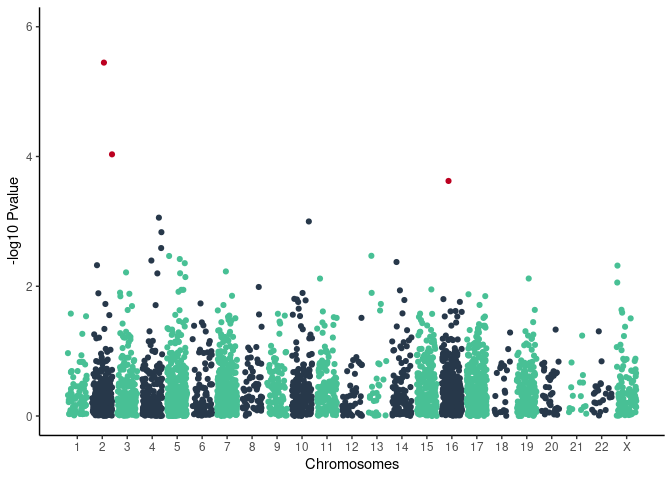
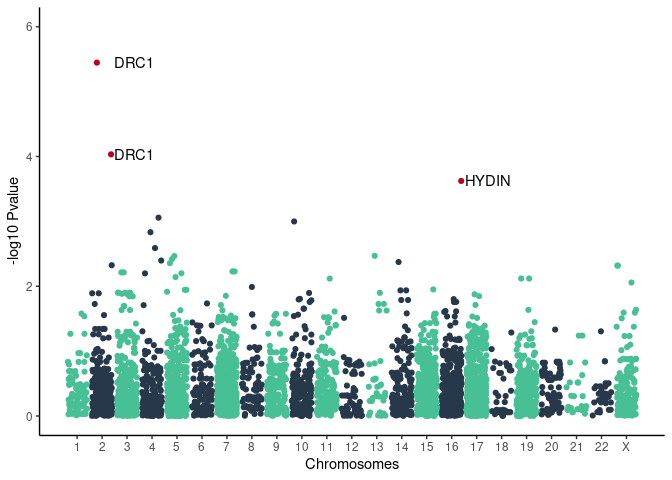
update

diff --git a/pulmo/logistic_gwas.md b/pulmo/logistic_gwas.md
@@ -3,14 +3,16 @@ pulmo\_panel
 
 Results on 1076 unrelated individuals
 
+    ## Joining, by = "SNP"
+
     ## `geom_smooth()` using formula 'y ~ x'
 
 ![](logistic_gwas_files/figure-gfm/loading_data-1.png)<!-- -->
 
 ![](logistic_gwas_files/figure-gfm/q_manhattan_plot-1.png)<!-- -->
 
-| CHR | SNP                    |   Pvalue | FDR\_BH | FDR\_BY |
-|----:|:-----------------------|---------:|--------:|--------:|
-|   2 | chr2\_26447115\_A\_T   | 3.60e-06 | 0.01157 |  0.1002 |
-|   2 | chr2\_26405653\_CTT\_C | 9.26e-05 | 0.15010 |  1.0000 |
-|  16 | chr16\_71164275\_T\_C  | 2.38e-04 | 0.25720 |  1.0000 |
+| SYMBOL | SNP                    |   Pvalue | FDR\_BH |
+|:-------|:-----------------------|---------:|--------:|
+| DRC1   | chr2\_26447115\_A\_T   | 3.60e-06 | 0.01157 |
+| DRC1   | chr2\_26405653\_CTT\_C | 9.26e-05 | 0.15010 |
+| HYDIN  | chr16\_71164275\_T\_C  | 2.38e-04 | 0.25720 |
